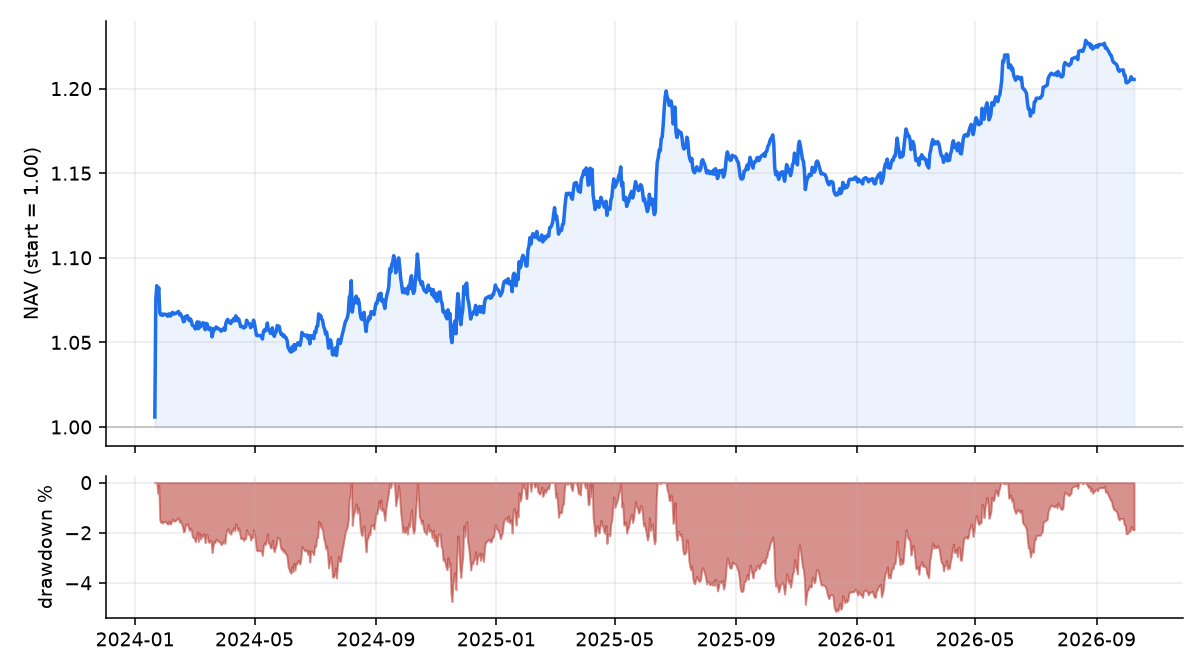
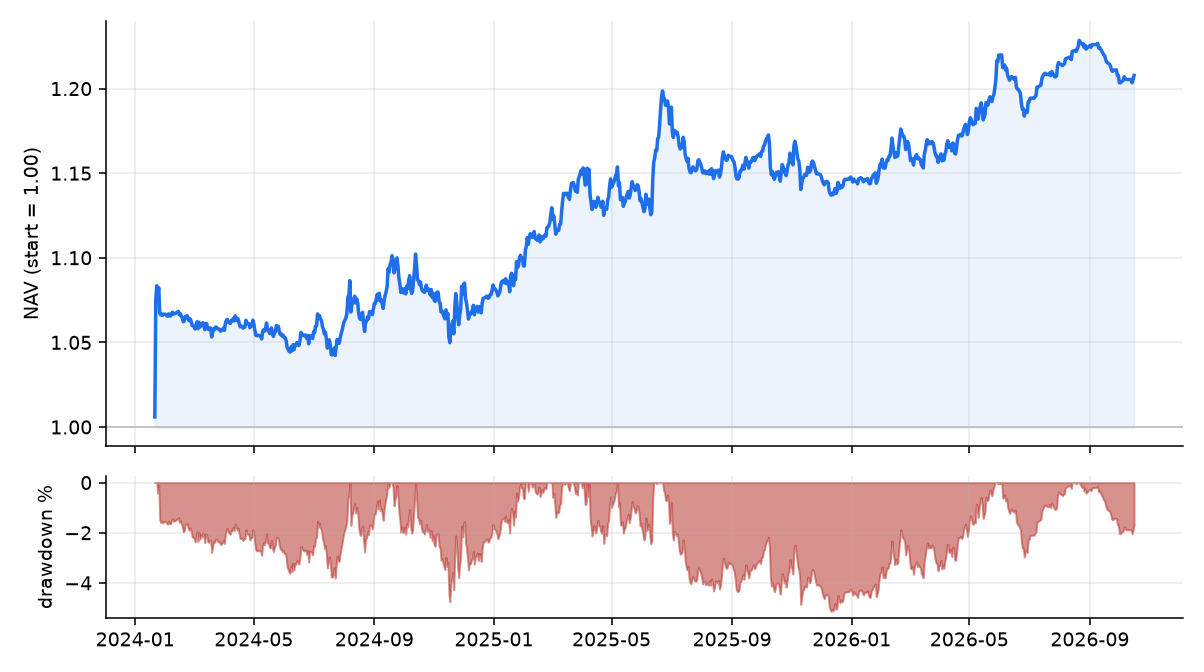
live: NAV update 2026-10-26T09:17Z

diff --git a/index.html b/index.html
@@ -3,7 +3,7 @@
 <title>Alpha Research — Live Book</title>
 <meta name="description" content="Live paper-traded NAV of the Alpha Research diversified risk-premium book: crypto carry/trend + FX carry/value, risk-parity, vol-targeted, net of costs. Updated daily.">
 <meta property="og:title" content="Alpha Research — Live Book">
-<meta property="og:description" content="Paper-traded NAV of the diversified risk-premium book, updated daily. Sharpe 0.83, NAV 1.205 since 2024-01-01.">
+<meta property="og:description" content="Paper-traded NAV of the diversified risk-premium book, updated daily. Sharpe 0.84, NAV 1.208 since 2024-01-01.">
 <meta property="og:type" content="website"><meta property="og:url" content="https://alpha.vineai.tech/">
 <meta property="og:image" content="https://alpha.vineai.tech/nav.png">
 <meta property="og:image:width" content="1204"><meta property="og:image:height" content="672">
@@ -36,18 +36,18 @@ footer{margin-top:46px;padding-top:16px;border-top:1px solid var(--rule);color:v
 <header>
   <div class="tag">Alpha Research · Live Book</div>
   <h1>The diversified risk-premium book, paper-traded live</h1>
-  <p class="sub">Inception 2024-01-01 · data through 2026-10-09 · updated 2026-10-25 09:17:54 UTC<br>
+  <p class="sub">Inception 2024-01-01 · data through 2026-10-16 · updated 2026-10-26 09:17:58 UTC<br>
   The capstone of the <a href="https://bryanvine.github.io/alpha-research/">Alpha Research</a> series
   (<a href="https://bryanvine.github.io/alpha-research/paper7.html">Paper 7</a>), tracked forward as a paper portfolio.</p>
 </header>
 
-<div class="cards"><div class="card"><div class="k">NAV</div><div class="v pos">1.205</div></div><div class="card"><div class="k">Total return</div><div class="v pos">+20.5%</div></div><div class="card"><div class="k">Annualized</div><div class="v pos">+5.0%</div></div><div class="card"><div class="k">Sharpe</div><div class="v pos">0.83</div></div><div class="card"><div class="k">Volatility</div><div class="v mut">6.1%</div></div><div class="card"><div class="k">Max drawdown</div><div class="v neg">-5.1%</div></div></div>
+<div class="cards"><div class="card"><div class="k">NAV</div><div class="v pos">1.208</div></div><div class="card"><div class="k">Total return</div><div class="v pos">+20.8%</div></div><div class="card"><div class="k">Annualized</div><div class="v pos">+5.0%</div></div><div class="card"><div class="k">Sharpe</div><div class="v pos">0.84</div></div><div class="card"><div class="k">Volatility</div><div class="v mut">6.1%</div></div><div class="card"><div class="k">Max drawdown</div><div class="v neg">-5.1%</div></div></div>
 
 <figure><img src="nav.png" alt="Live NAV equity curve and drawdown"></figure>
 
 <h2>Current target weights &amp; sleeve performance</h2>
 <table><thead><tr><th>Sleeve</th><th>Weight</th><th>Sharpe (since inception)</th></tr></thead>
-<tbody><tr><td>Crypto funding carry</td><td>nan%</td><td class="pos">+0.96</td></tr><tr><td>Crypto trend</td><td>nan%</td><td class="pos">+0.18</td></tr><tr><td>FX carry</td><td>53.4%</td><td class="pos">+0.75</td></tr><tr><td>FX value</td><td>46.6%</td><td class="neg">-0.86</td></tr></tbody></table>
+<tbody><tr><td>Crypto funding carry</td><td>nan%</td><td class="pos">+0.96</td></tr><tr><td>Crypto trend</td><td>nan%</td><td class="pos">+0.18</td></tr><tr><td>FX carry</td><td>54.1%</td><td class="pos">+0.75</td></tr><tr><td>FX value</td><td>45.9%</td><td class="neg">-0.83</td></tr></tbody></table>
 
 <div class="note"><strong>What this is.</strong> A risk-parity, 10%/yr-vol-targeted combination of the
 daily-tradable survivors from the research program — crypto funding carry, crypto trend, and G10 FX
